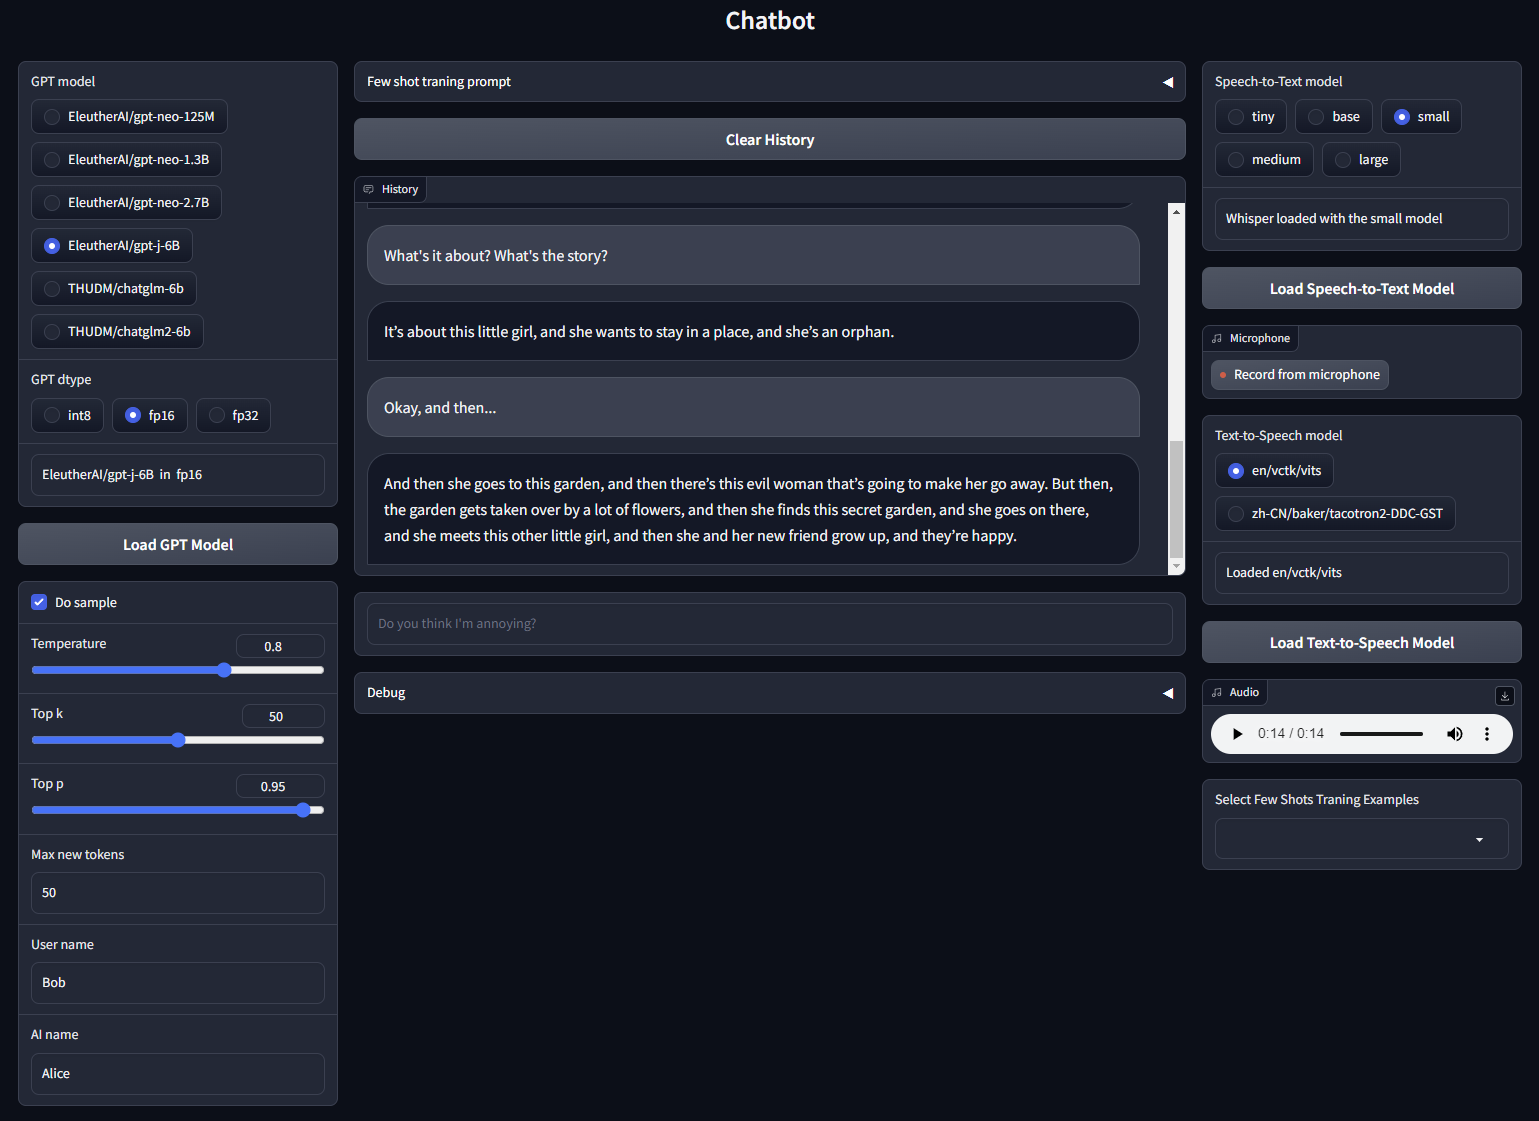
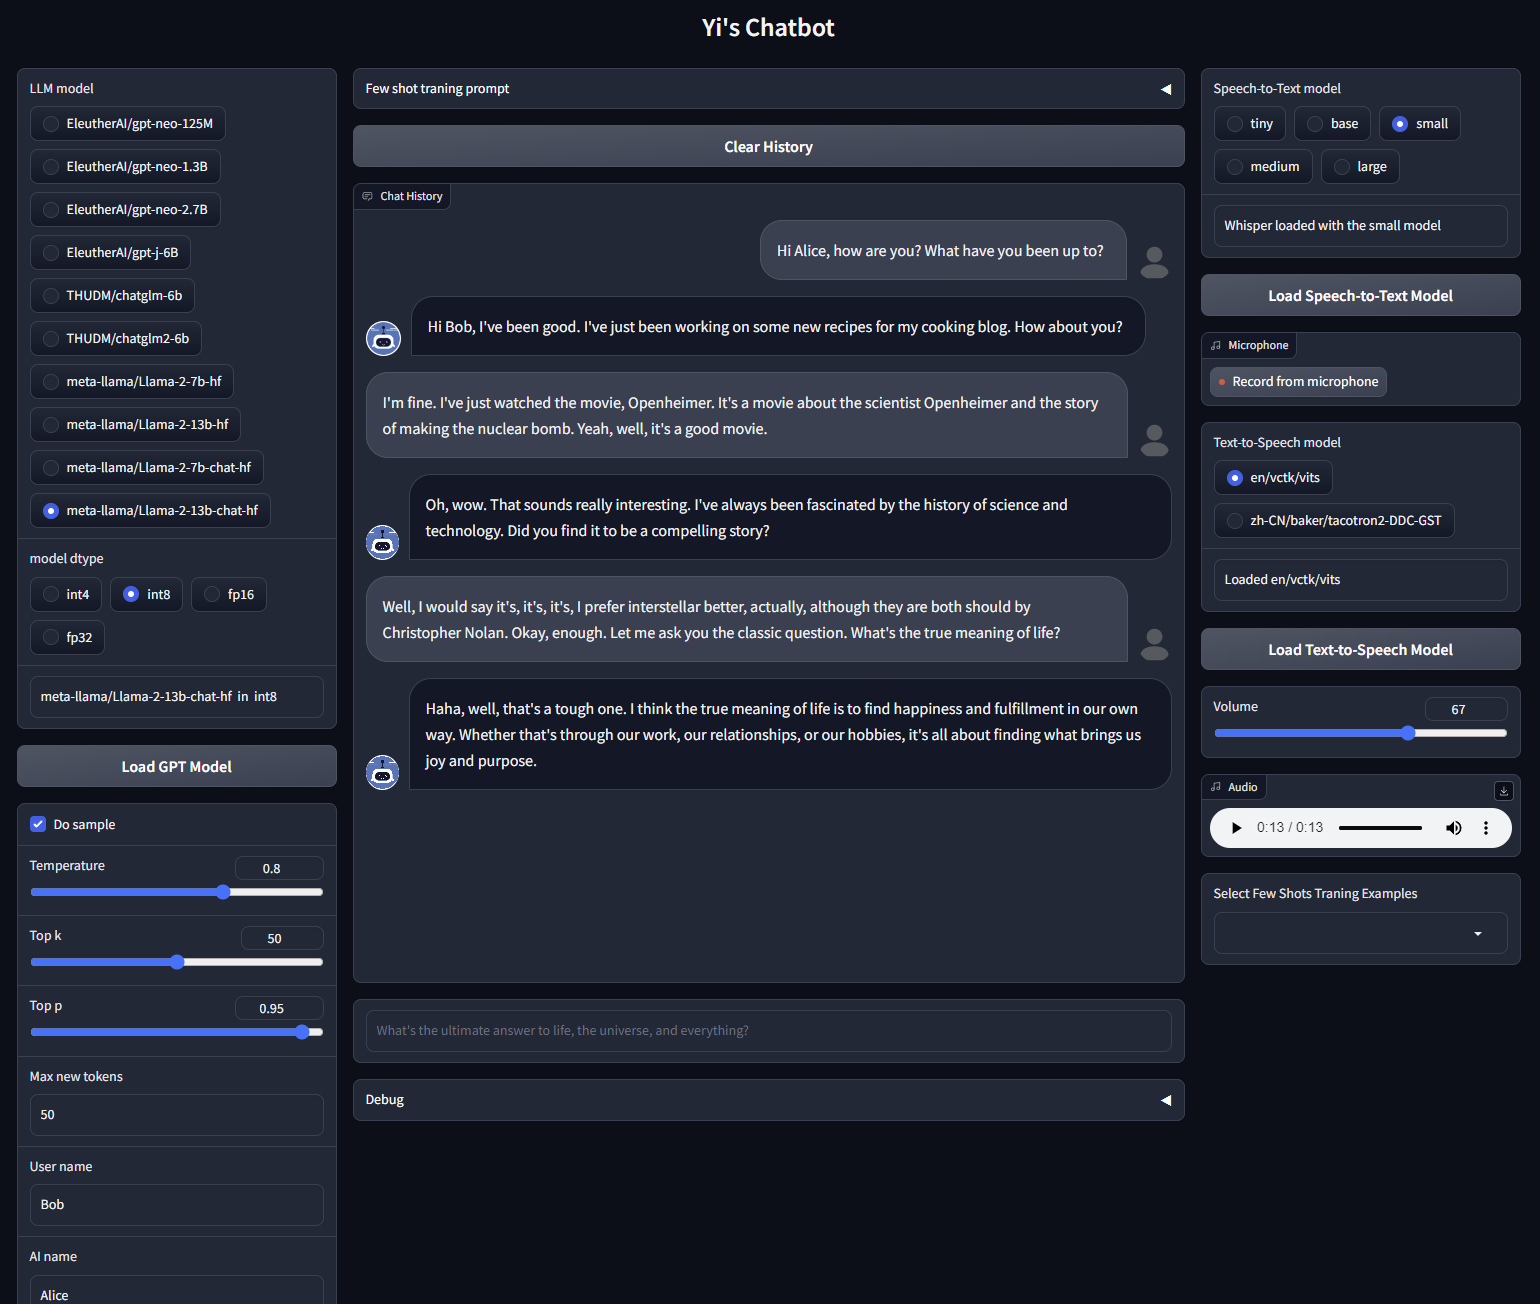
update screenshot

diff --git a/demo/launch.py b/demo/launch.py
@@ -8,7 +8,7 @@ from chat import load_gpt, generate_prompt, chat, EXAMPLE_FEW_SHOTS
 
 
 with gr.Blocks() as demo:
-    gr.Markdown("""# <center>Chatbot</center>""")
+    gr.Markdown("""# <center>Yi's Chatbot</center>""")
     with gr.Row():
         with gr.Column(scale=1):
             gpt_name_radio = gr.Radio(
